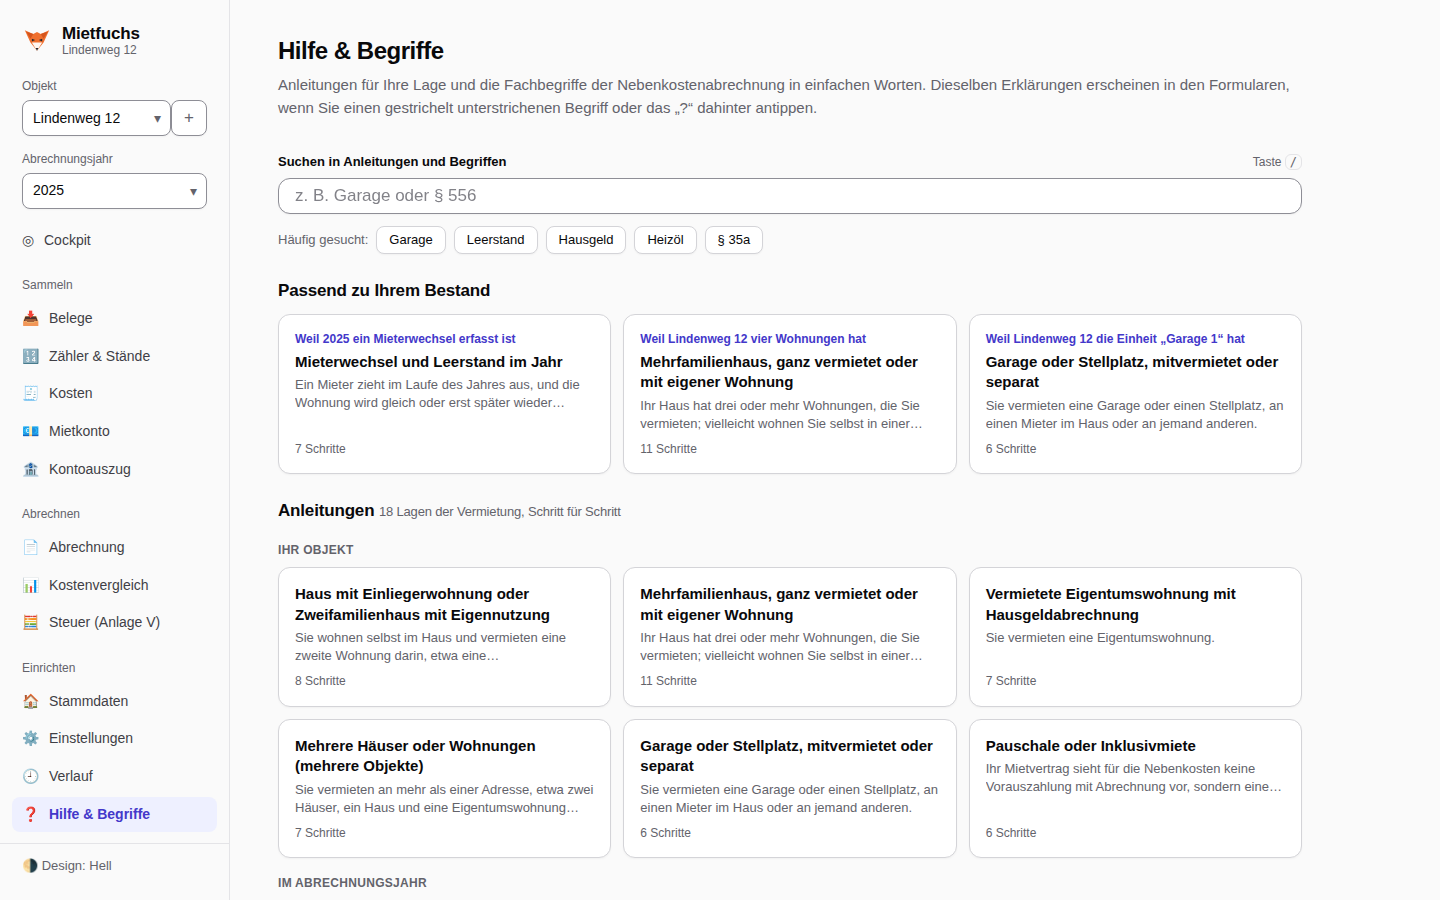
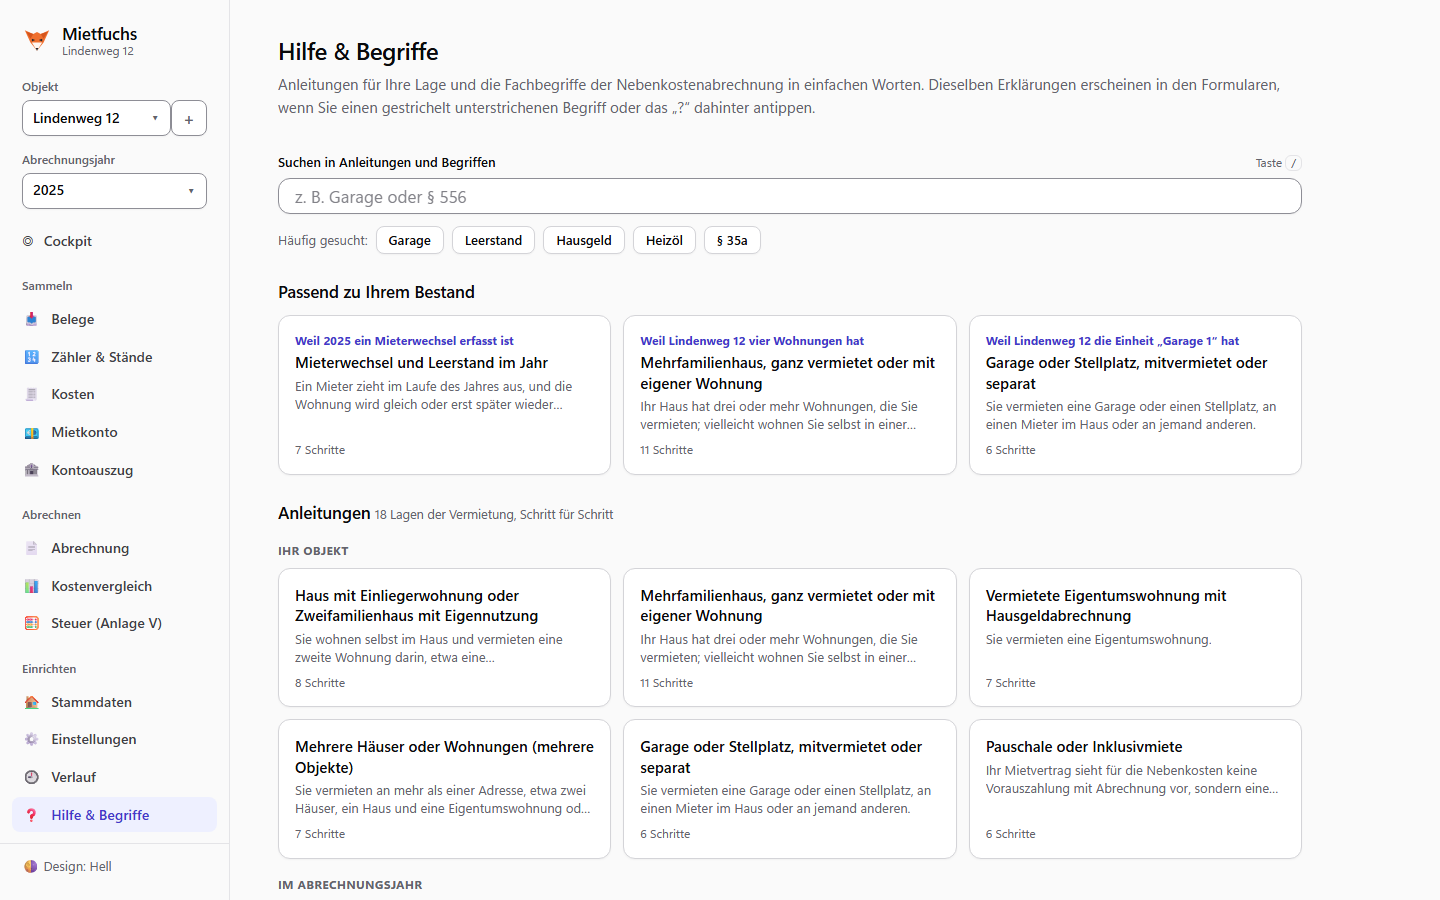
chore(release): v0.18.1 (#650)
Version 0.18.1 in Root, server, client und desktop, CHANGELOG-Abschnitt mit Vergleichslinks,
Bildschirmfotos neu. Patchversion ohne neue Migration, deshalb kein Eintrag in RELEASE_STEPS.

Refs #647

diff --git a/CHANGELOG.md b/CHANGELOG.md
@@ -6,6 +6,8 @@ Alle nennenswerten Änderungen an Mietfuchs. Das Format orientiert sich an
 
 ## [Unveröffentlicht]
 
+## [0.18.1] – 2026-11-19
+
 ### Geändert
 
 - Abrechnung: Die Knöpfe der Kopfzeile stehen geordnet. Unter „Mehr“ hat jede Zeile die Erklärung links und ihre
@@ -3708,7 +3710,8 @@ Verteilung nach Wohnfläche, Personenzahl, Wohneinheiten, Verbrauch oder Direktz
 druckfertige Abrechnung je Mieter, Mietkonto, Steuerübersicht für die Anlage V, optionale
 KI-Belegauswertung gegen eine lokale Ollama-Instanz, Backup und Wiederherstellung.
 
-[Unveröffentlicht]: https://github.com/speedone/mietfuchs/compare/v0.18.0...HEAD
+[Unveröffentlicht]: https://github.com/speedone/mietfuchs/compare/v0.18.1...HEAD
+[0.18.1]: https://github.com/speedone/mietfuchs/compare/v0.18.0...v0.18.1
 [0.18.0]: https://github.com/speedone/mietfuchs/compare/v0.17.0...v0.18.0
 [0.17.0]: https://github.com/speedone/mietfuchs/compare/v0.16.1...v0.17.0
 [0.16.1]: https://github.com/speedone/mietfuchs/compare/v0.16.0...v0.16.1
